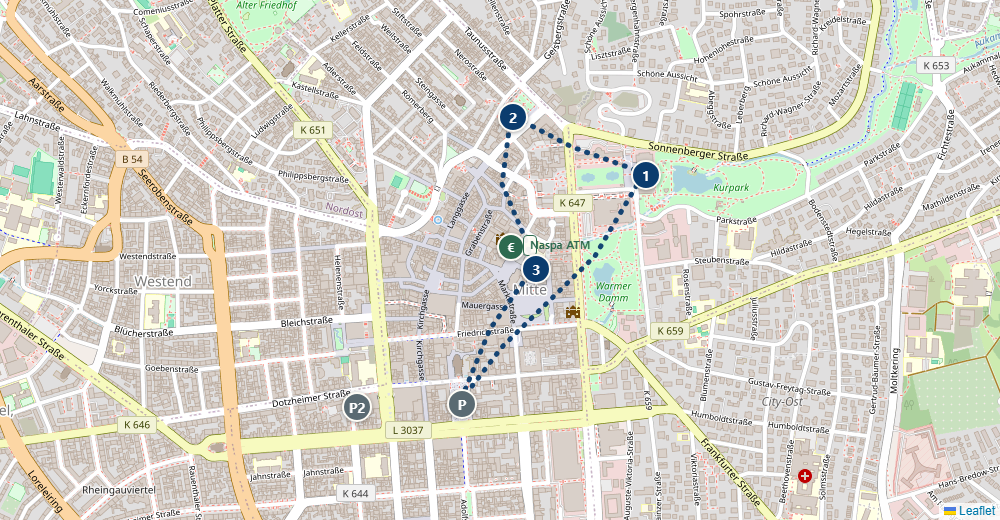
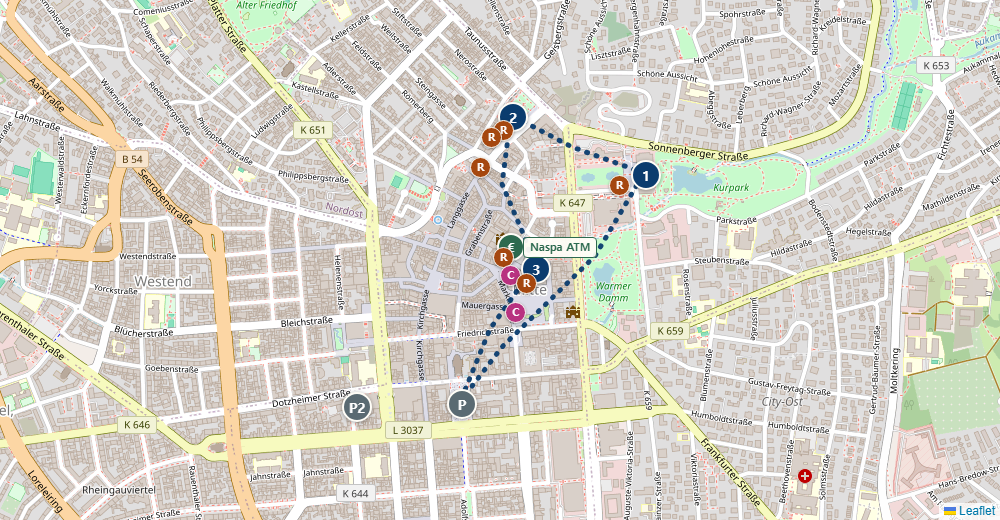
프랑크푸르트·비스바덴 지도에 맛집(R)·디저트카페(C) 핀 추가, 라벨 버그 수정

Changed region(s): [[0.496, 0.4308, 0.62, 0.6154], [0.465, 0.2154, 0.527, 0.3385], [0.589, 0.3385, 0.651, 0.3692]]

diff --git a/germany-roadtrip-planner.html b/germany-roadtrip-planner.html
@@ -4468,7 +4468,7 @@ document.addEventListener('DOMContentLoaded', function(){
       <a class="walk-map-link" href="https://www.google.com/maps/dir/?api=1&travelmode=walking&origin=50.1102,8.6822&destination=50.1102,8.6822&waypoints=50.1033%2C8.6739%7C50.1081%2C8.6821%7C50.1107%2C8.6853%7C50.1127%2C8.6830" target="_blank" rel="noopener">📍 Google 지도로 도보 코스 보기(Parkhaus Dom-Römer 출발·도착) · 총 약 3.0km · 도보 약 37분</a>
       <div class="route-snapshot">
         <div class="route-snapshot-media">
-          <img src="images/routes/frankfurt.png?v=9" alt="프랑크푸르트 도보 코스 지도 스냅샷 — Parkhaus Dom-Römer에서 출발해 다리 건너 슈테델 미술관을 본 뒤 아이제르너 슈텍·뢰머광장·대성당·클라인마르크트할레를 돌아 주차장으로 복귀, Frankfurter Sparkasse ATM·만차 시 대안 주차장(P2 Hauptwache) 포함" loading="lazy" width="900" height="900">
+          <img src="images/routes/frankfurt.png?v=10" alt="프랑크푸르트 도보 코스 지도 스냅샷 — Parkhaus Dom-Römer에서 출발해 다리 건너 슈테델 미술관을 본 뒤 아이제르너 슈텍·뢰머광장·대성당·클라인마르크트할레를 돌아 주차장으로 복귀, Frankfurter Sparkasse ATM·만차 시 대안 주차장(P2 Hauptwache)·맛집(R)·디저트카페(C) 포함" loading="lazy" width="900" height="900">
         </div>
         <ol class="route-steps">
         <li class="rs-p"><span class="rs-name">Parkhaus Dom-Römer</span></li>
@@ -4663,7 +4663,7 @@ document.addEventListener('DOMContentLoaded', function(){
       <a class="walk-map-link" href="https://www.google.com/maps/dir/?api=1&travelmode=walking&origin=50.0785,8.2397&destination=50.0785,8.2397&waypoints=50.0848%2C8.2476%7C50.0864%2C8.2419%7C50.0822,8.2429" target="_blank" rel="noopener">📍 Google 지도로 도보 코스 보기(출발·도착: Parkhaus Luisenplatz) · 총 약 3.0km · 도보 약 41분</a>
       <div class="route-snapshot">
         <div class="route-snapshot-media">
-          <img src="images/routes/wiesbaden.png?v=5" alt="비스바덴 도보 코스 지도 스냅샷 — Naspa ATM·만차 시 대안 주차장(P2 LuisenForum) 위치 포함" loading="lazy" width="1000" height="520">
+          <img src="images/routes/wiesbaden.png?v=6" alt="비스바덴 도보 코스 지도 스냅샷 — Naspa ATM·만차 시 대안 주차장(P2 LuisenForum)·맛집(R)·디저트카페(C) 위치 포함" loading="lazy" width="1000" height="520">
         </div>
         <ol class="route-steps">
         <li class="rs-p"><span class="rs-name">Parkhaus Luisenplatz</span></li>

diff --git a/index.html b/index.html
@@ -4468,7 +4468,7 @@ document.addEventListener('DOMContentLoaded', function(){
       <a class="walk-map-link" href="https://www.google.com/maps/dir/?api=1&travelmode=walking&origin=50.1102,8.6822&destination=50.1102,8.6822&waypoints=50.1033%2C8.6739%7C50.1081%2C8.6821%7C50.1107%2C8.6853%7C50.1127%2C8.6830" target="_blank" rel="noopener">📍 Google 지도로 도보 코스 보기(Parkhaus Dom-Römer 출발·도착) · 총 약 3.0km · 도보 약 37분</a>
       <div class="route-snapshot">
         <div class="route-snapshot-media">
-          <img src="images/routes/frankfurt.png?v=9" alt="프랑크푸르트 도보 코스 지도 스냅샷 — Parkhaus Dom-Römer에서 출발해 다리 건너 슈테델 미술관을 본 뒤 아이제르너 슈텍·뢰머광장·대성당·클라인마르크트할레를 돌아 주차장으로 복귀, Frankfurter Sparkasse ATM·만차 시 대안 주차장(P2 Hauptwache) 포함" loading="lazy" width="900" height="900">
+          <img src="images/routes/frankfurt.png?v=10" alt="프랑크푸르트 도보 코스 지도 스냅샷 — Parkhaus Dom-Römer에서 출발해 다리 건너 슈테델 미술관을 본 뒤 아이제르너 슈텍·뢰머광장·대성당·클라인마르크트할레를 돌아 주차장으로 복귀, Frankfurter Sparkasse ATM·만차 시 대안 주차장(P2 Hauptwache)·맛집(R)·디저트카페(C) 포함" loading="lazy" width="900" height="900">
         </div>
         <ol class="route-steps">
         <li class="rs-p"><span class="rs-name">Parkhaus Dom-Römer</span></li>
@@ -4663,7 +4663,7 @@ document.addEventListener('DOMContentLoaded', function(){
       <a class="walk-map-link" href="https://www.google.com/maps/dir/?api=1&travelmode=walking&origin=50.0785,8.2397&destination=50.0785,8.2397&waypoints=50.0848%2C8.2476%7C50.0864%2C8.2419%7C50.0822,8.2429" target="_blank" rel="noopener">📍 Google 지도로 도보 코스 보기(출발·도착: Parkhaus Luisenplatz) · 총 약 3.0km · 도보 약 41분</a>
       <div class="route-snapshot">
         <div class="route-snapshot-media">
-          <img src="images/routes/wiesbaden.png?v=5" alt="비스바덴 도보 코스 지도 스냅샷 — Naspa ATM·만차 시 대안 주차장(P2 LuisenForum) 위치 포함" loading="lazy" width="1000" height="520">
+          <img src="images/routes/wiesbaden.png?v=6" alt="비스바덴 도보 코스 지도 스냅샷 — Naspa ATM·만차 시 대안 주차장(P2 LuisenForum)·맛집(R)·디저트카페(C) 위치 포함" loading="lazy" width="1000" height="520">
         </div>
         <ol class="route-steps">
         <li class="rs-p"><span class="rs-name">Parkhaus Luisenplatz</span></li>
